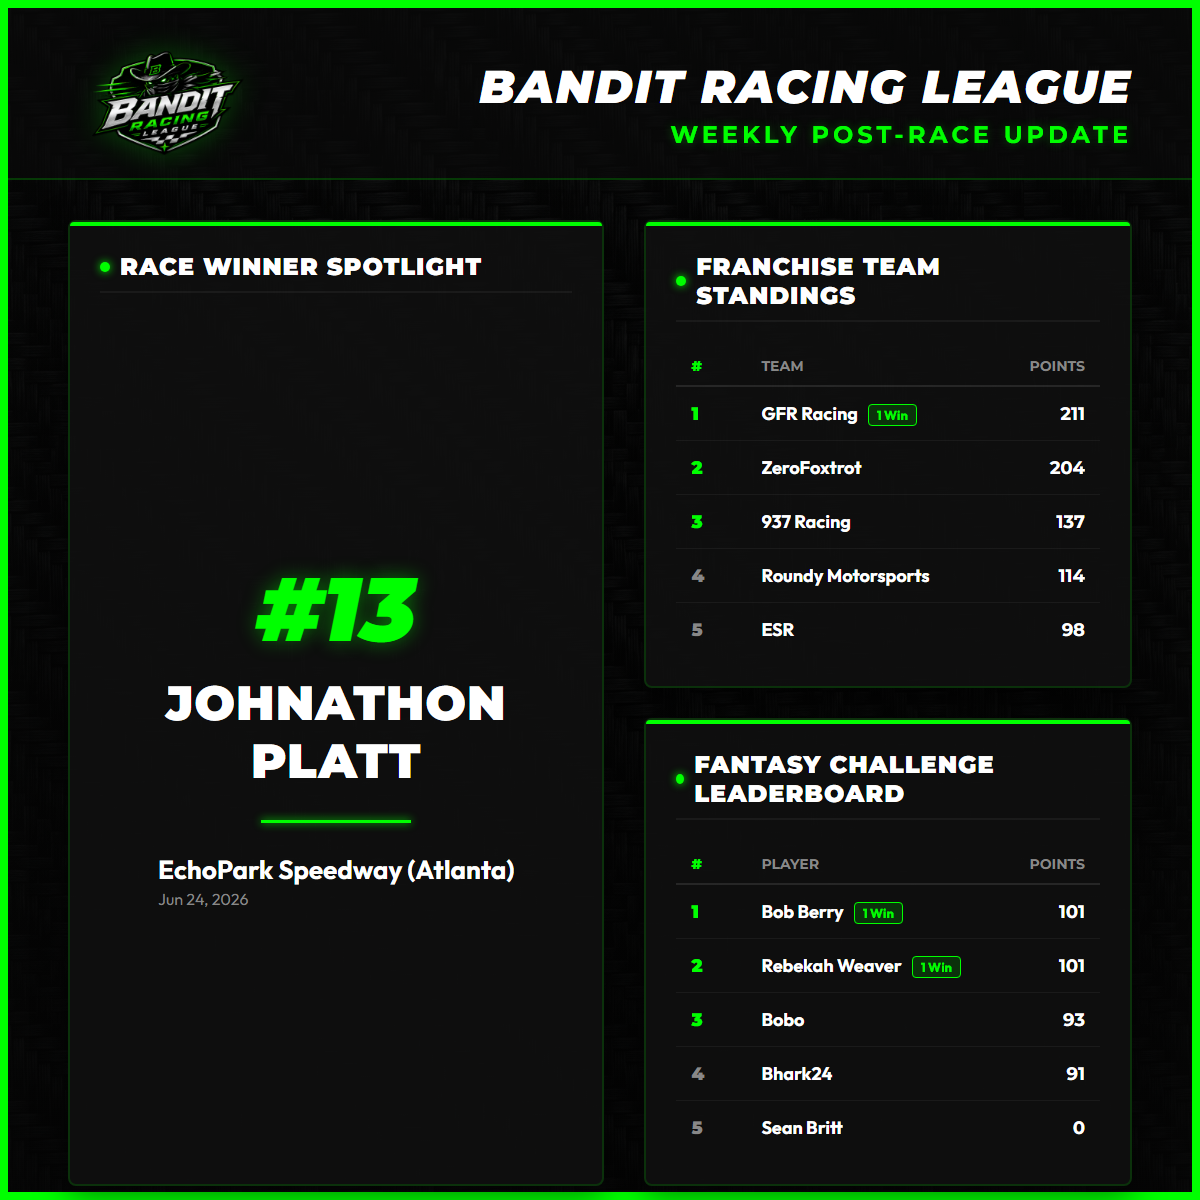
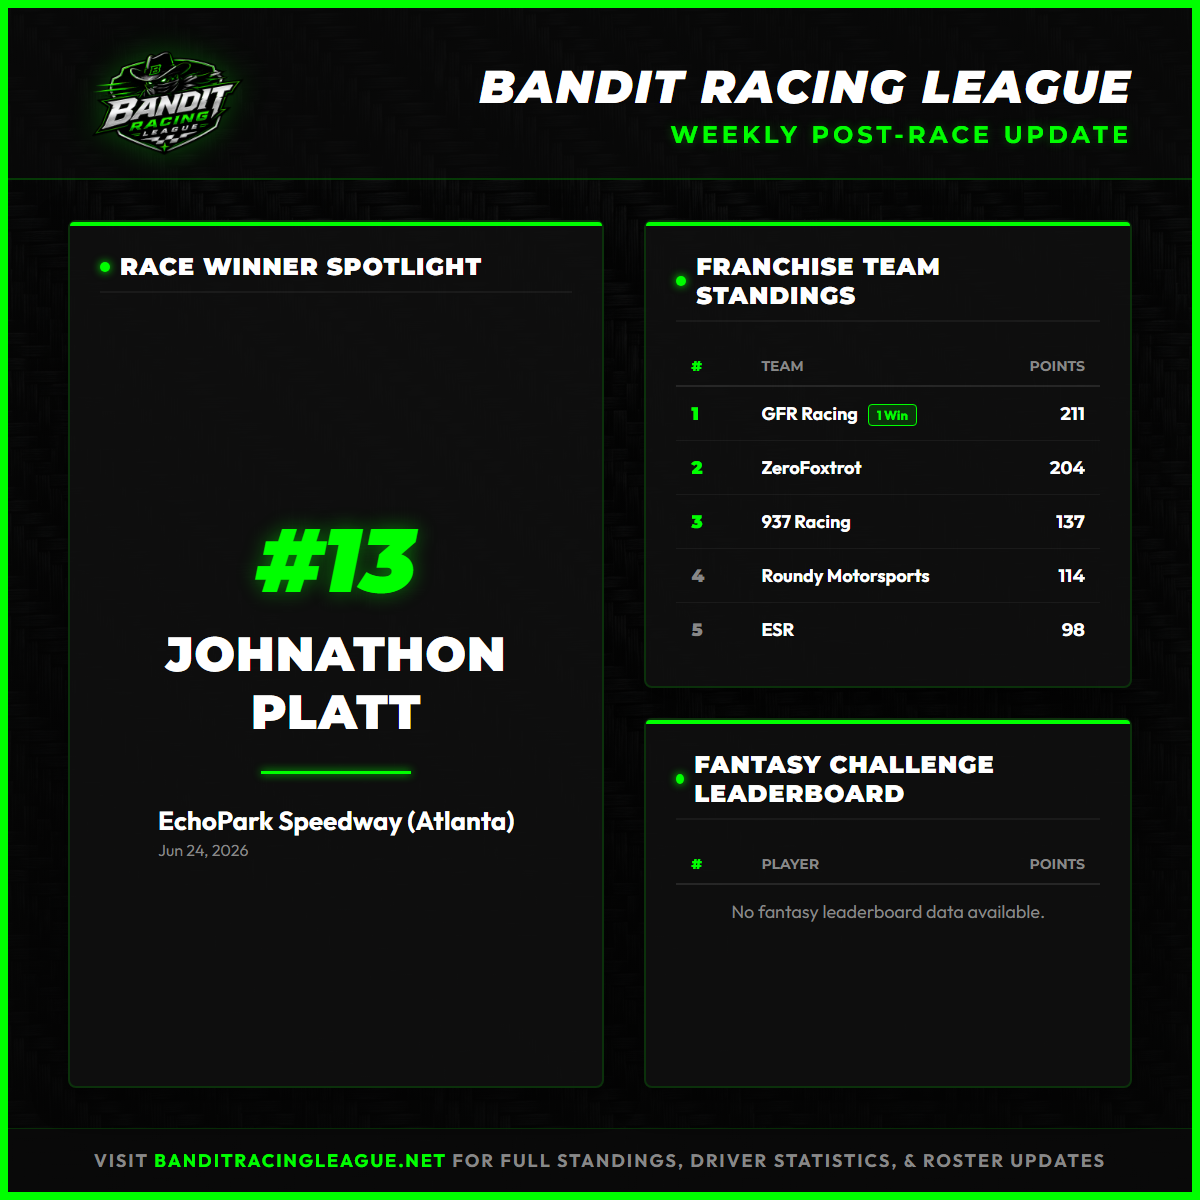
Correct Johnathon Platt's team to GFR Racing in Atlanta recap and social generator

diff --git a/article_atlanta_recap.html b/article_atlanta_recap.html
@@ -6,7 +6,7 @@
     <title>Redemption in the Peach State: Johnathon Platt Conquers Atlanta | Bandit Racing League</title>
     <!-- SEO & Page Previews -->
     <meta name="description" content="Read the full race recap of the Season 16 battle at EchoPark Speedway (Atlanta). Johnathon Platt takes the win, with Connor Gibson charging to second.">
-    <meta name="keywords" content="Bandit Racing League, Atlanta Race Recap, EchoPark Speedway, iRacing results, Johnathon Platt, Connor Gibson, Legacy Racing">
+    <meta name="keywords" content="Bandit Racing League, Atlanta Race Recap, EchoPark Speedway, iRacing results, Johnathon Platt, Connor Gibson, GFR Racing">
     
     <!-- Open Graph / Discord Previews -->
     <meta property="og:title" content="Bandit Racing League - Atlanta Race Recap">
@@ -158,12 +158,12 @@
     <section class="container">
         <div class="article-content neon-border">
             <div class="highlight-box">
-                <p><strong>Race Update:</strong> Following a heart-breaking last-lap incident at Daytona, Johnathon Platt bounced back in spectacular fashion, steering the #13 Legacy Racing truck to a dominant victory at EchoPark Speedway (Atlanta).</p>
+                <p><strong>Race Update:</strong> Following a heart-breaking last-lap incident at Daytona, Johnathon Platt bounced back in spectacular fashion, steering the #13 GFR Racing truck to a dominant victory at EchoPark Speedway (Atlanta).</p>
             </div>
 
             <p>After the controversy and late-race heartbreak of the Season 16 opener at Daytona, the Bandit Racing League moved to the high-speed banks of <strong>EchoPark Speedway (Atlanta)</strong> for week two. When the dust settled, it was <strong>Johnathon Platt</strong> celebrating in Victory Lane, earning a well-deserved redemption after being denied at the line in the season opener.</p>
             
-            <p>Platt qualified a modest 10th, but he wasted no time carving through the pack. With clean lines and superb tire management, Platt seized the lead and held it for a race-high 32 laps. Despite multiple restarts and fierce challenges behind him, the pilot of the #13 Legacy Racing machine took the checkered flag under running status to secure the victory.</p>
+            <p>Platt qualified a modest 10th, but he wasted no time carving through the pack. With clean lines and superb tire management, Platt seized the lead and held it for a race-high 32 laps. Despite multiple restarts and fierce challenges behind him, the pilot of the #13 GFR Racing machine took the checkered flag under running status to secure the victory.</p>
 
             <div class="image-gallery">
                 <div class="gallery-item featured-shot">
@@ -193,7 +193,7 @@
             
             <p>Similarly, <strong>Benjamin Lacy</strong> was the class of the field for much of the night, leading a race-high 33 laps. However, late-race complications dropped him down to 22nd at the finish line, leaving his crew wondering what could have been.</p>
 
-            <p>With Platt's victory, Legacy Racing continues their strong start to the season, keeping the battle in both the Driver and Franchise championships tight as the league moves to week three!</p>
+            <p>With Platt's victory, GFR Racing—a powerhouse team boasting several former league champions—proves why they are once again the outfit to beat, keeping the battle in both the Driver and Franchise championships tight as the series heads to week three!</p>
         </div>
     </section>
 

diff --git a/weekly_data.js b/weekly_data.js
@@ -72,43 +72,7 @@ const weeklyData = {
       "wins": 0
     }
   ],
-  "fantasyLeaderboard": [
-    {
-      "name": "Bob Berry",
-      "score": 101,
-      "wins": 1
-    },
-    {
-      "name": "Rebekah Weaver",
-      "score": 101,
-      "wins": 1
-    },
-    {
-      "name": "Bobo",
-      "score": 93,
-      "wins": 0
-    },
-    {
-      "name": "Bhark24",
-      "score": 91,
-      "wins": 0
-    },
-    {
-      "name": "Sean Britt",
-      "score": 0,
-      "wins": 0
-    },
-    {
-      "name": "Eddie Hagigh",
-      "score": 0,
-      "wins": 0
-    },
-    {
-      "name": "Michael Rakes",
-      "score": 0,
-      "wins": 0
-    }
-  ],
+  "fantasyLeaderboard": [],
   "driverStandings": [
     {
       "pos": 1,

diff --git a/generate_social_post.py b/generate_social_post.py
@@ -282,6 +282,19 @@ def find_track_action_shots(track_name, base_dir):
     return sorted(matched_files)
 
 
+def find_driver_team(driver_name, teams_data):
+    if not teams_data or "teams" not in teams_data:
+        return "Legacy Racing"
+    norm_driver = normalize_name(driver_name)
+    for team in teams_data["teams"]:
+        drivers = team.get("drivers", {})
+        primary = [normalize_name(d) for d in drivers.get("primary", [])]
+        backup = [normalize_name(d) for d in drivers.get("backup", [])]
+        if norm_driver in primary or norm_driver in backup:
+            return team.get("name", "Legacy Racing")
+    return "Legacy Racing"
+
+
 def scrape_driver_standings_playwright(browser, season_id="29722"):
     print("[*] Scraping driver standings from SimRacerHub...")
     try:
@@ -640,12 +653,14 @@ def main():
     else:
         story_lead = f"What a race! **{winner_name}** executed a perfect game plan, outrunning the field to secure P1 and the largest loot payout of the night at **{track_name}**!"
 
+    winner_team = find_driver_team(winner_name, teams_data)
+
     post_text = f"""🏁 **BANDIT RACING LEAGUE - WEEKLY UPDATE** 🏁
 Custom Standing Graphic: assets/weekly_social_update.png
 
 {story_lead}
 
-What a wild start to Season 16! Congratulations to **{winner_name}** and Legacy Racing for taking the checkered flag at **{track_name}** ({race_date})! 🏆
+What a wild start to Season 16! Congratulations to **{winner_name}** and {winner_team} for taking the checkered flag at **{track_name}** ({race_date})! 🏆
 
 💼 **FRANCHISE TEAM STANDINGS** 💼
 Here is how the Team Championship looks after this week:
